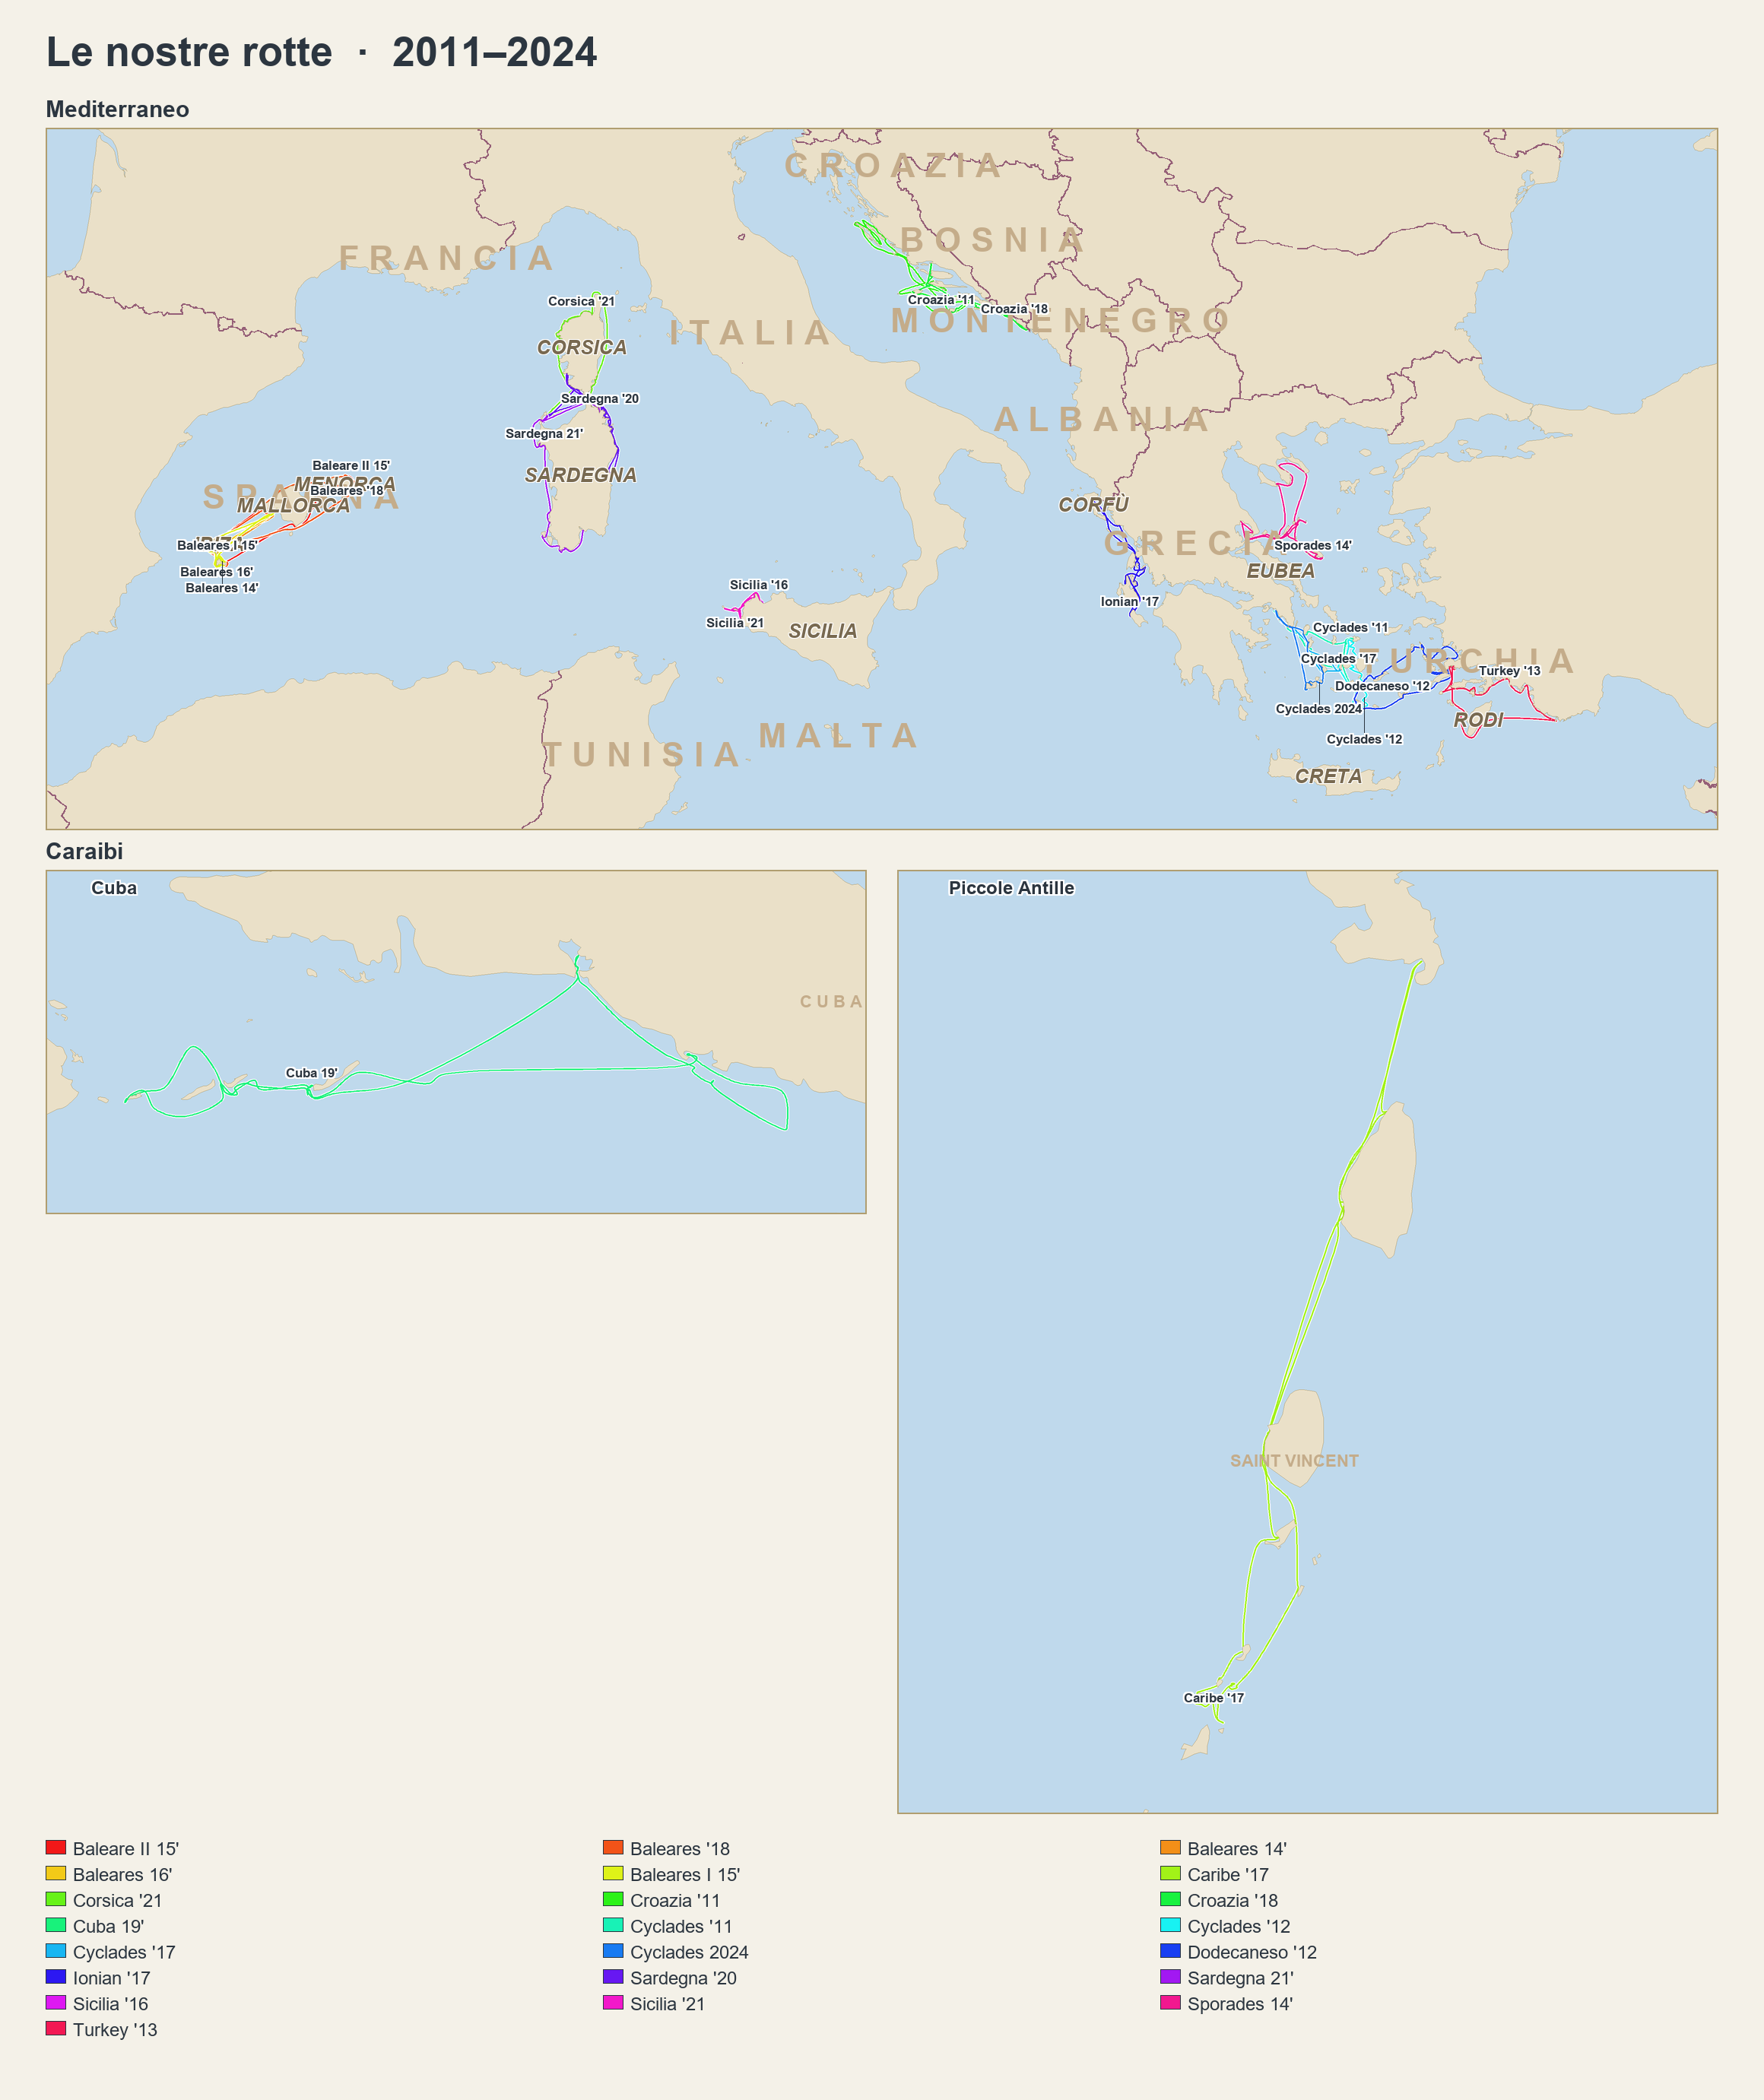
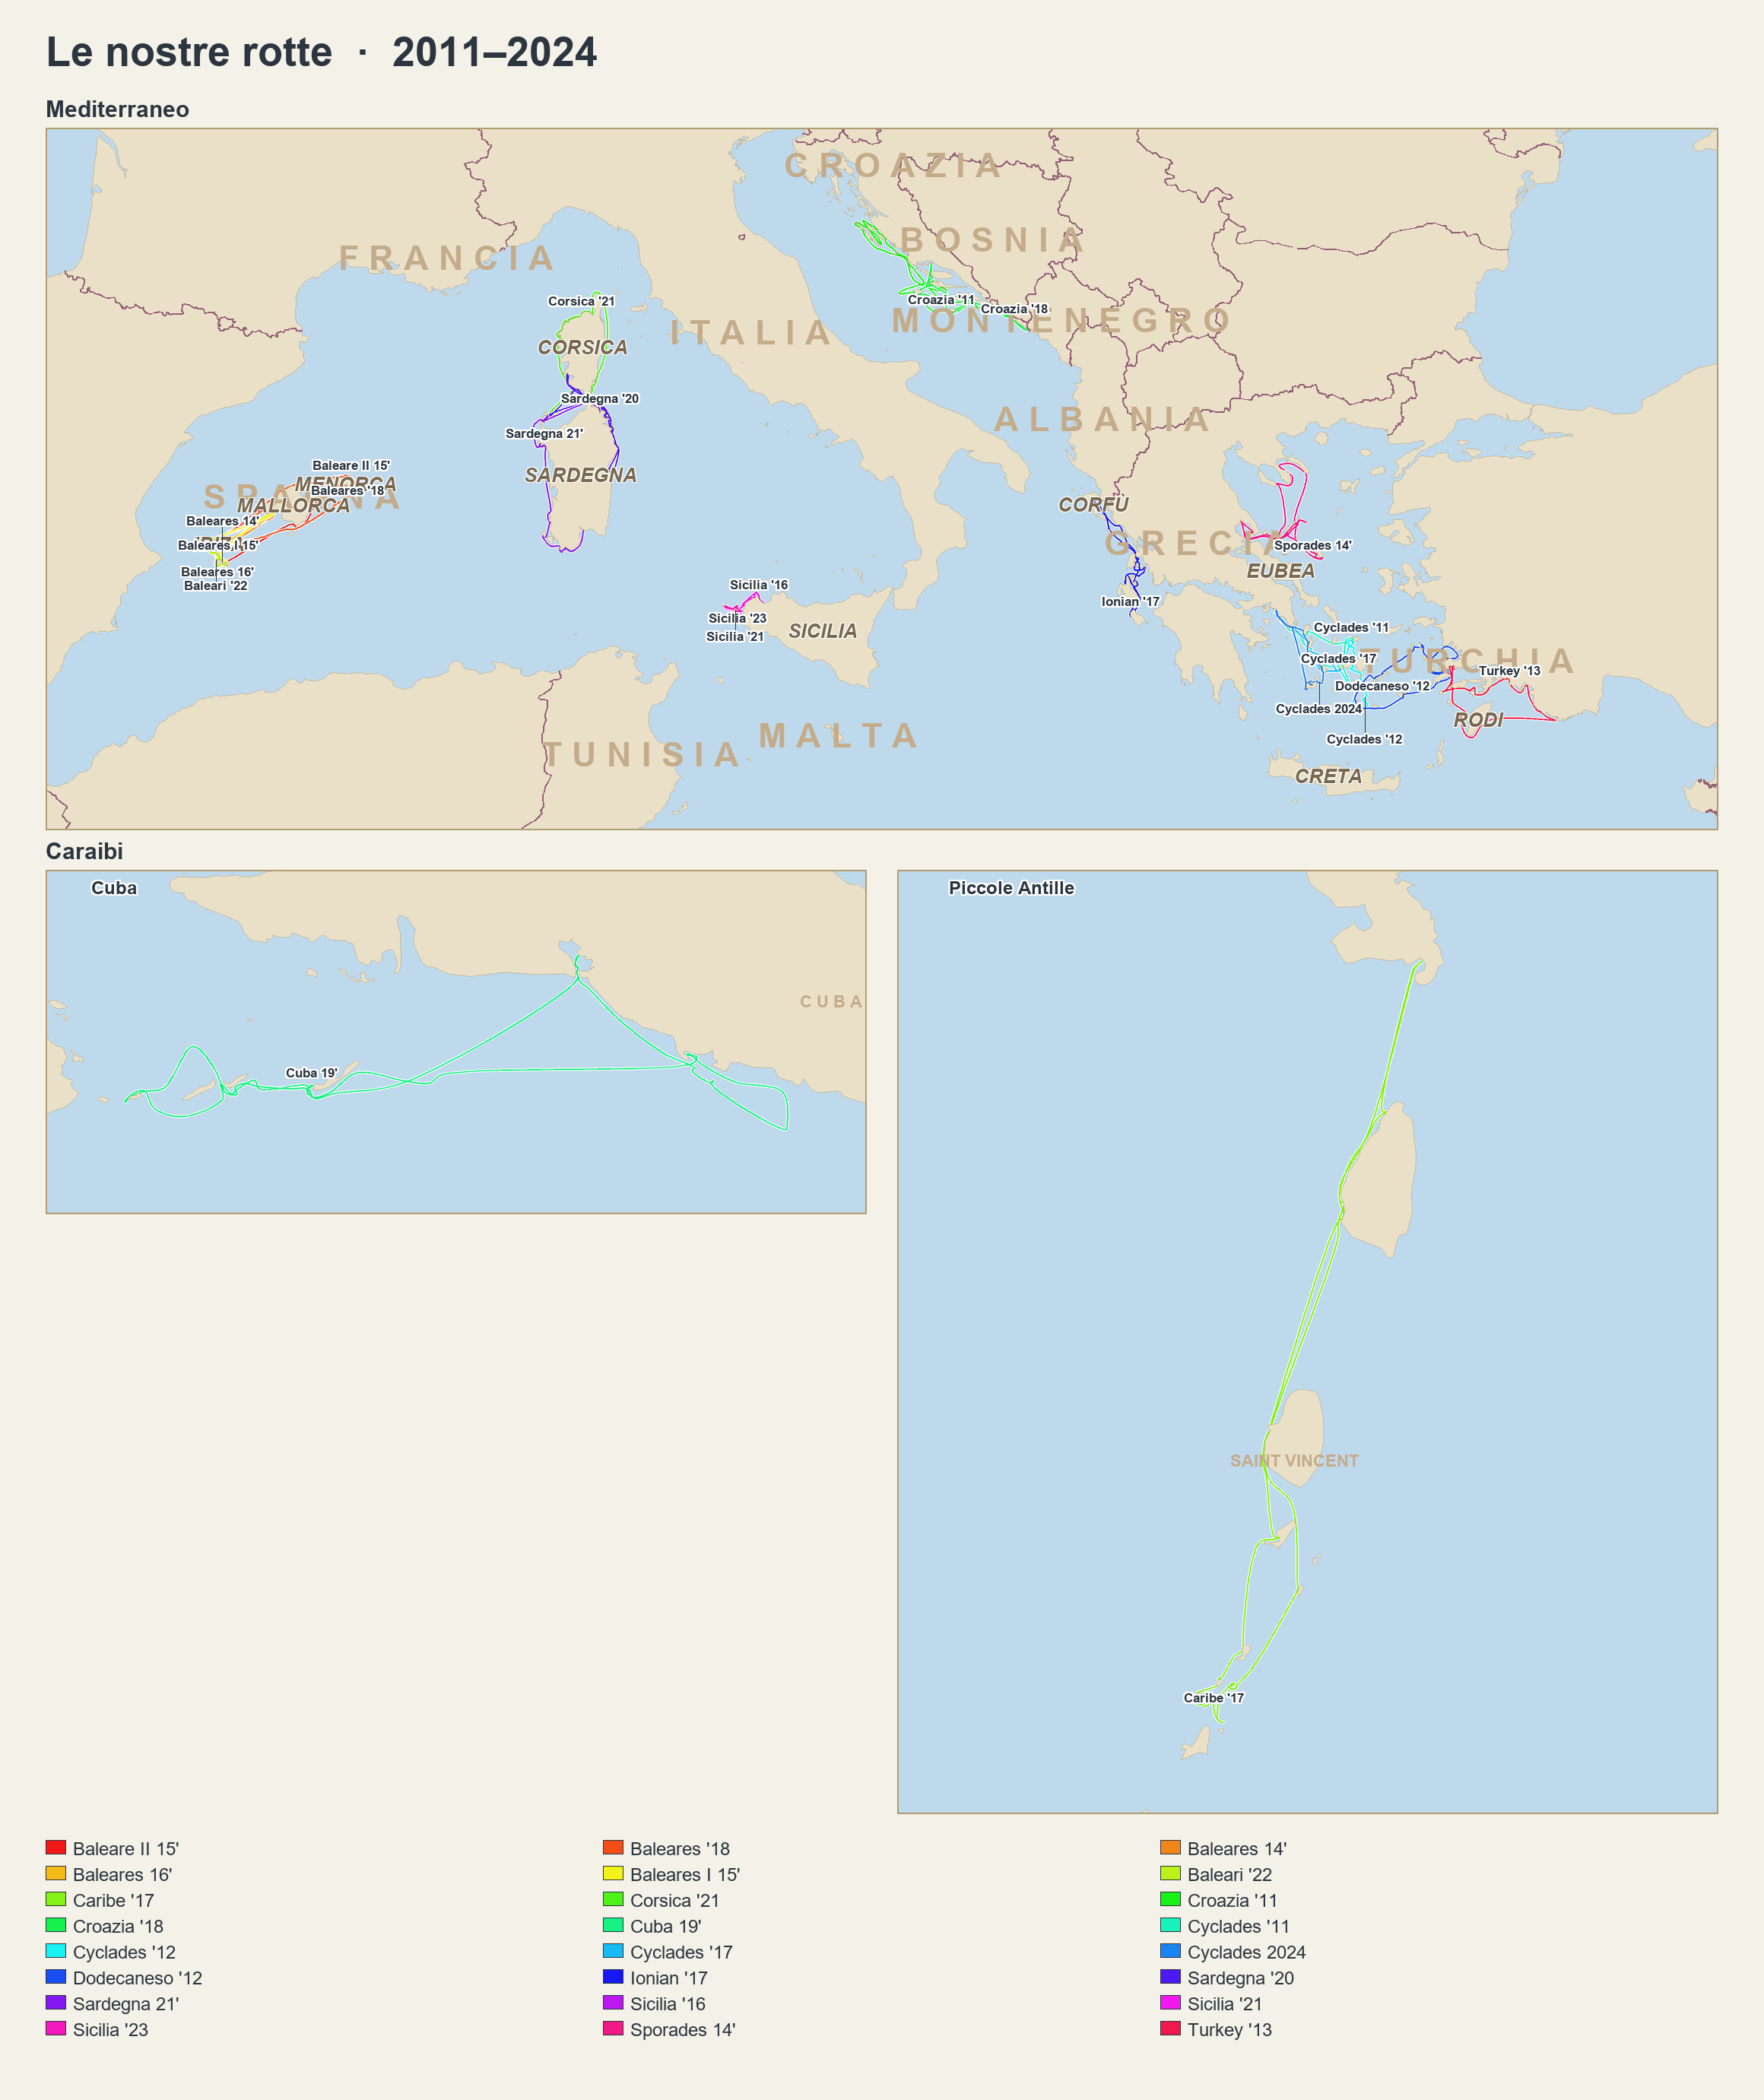
Rotte viaggi: aggiunge Baleari '22 e Sicilia '23 dal KML aggiornato
- Rigenerate le rotte dal KML aggiornato (24 tracce): due nuovi viaggi resi in
  site/trips/routes/ e cablati in viaggio.html:
    challenger (Baleares '22) -> baleari-22.png  (Ibiza/Formentera)
    isla       (Sicily-Egadi '23) -> sicilia-23.png  (Egadi)
- _global.png rigenerata: la panoramica a 3 parti e la legenda ora includono i due
  nuovi viaggi (24 tracce; Sporades '22 e Seychelles '24 restano senza traccia GPS).
- render_routes.py: nuova opzione --source per scegliere il KML sorgente.
- .gitignore: glob "Viaggi in barca*.kml" -> anche il file _last resta LOCALE
  (tracce GPS grezze fuori dal repo pubblico).

diff --git a/site/viaggio.html b/site/viaggio.html
@@ -130,7 +130,7 @@ const ROUTE = {
   sorbe: "caribe-17", "capitan-nikos": "cyclades-17", showtime: "ionian-17",
   invitation: "baleares-18", ondine: "croazia-18", lohengrin: "cuba-19",
   alba: "sardegna-20", enya: "corsica-21", silkwave: "sardegna-21", "mars-planet": "sicilia-21",
-  alexandros: "cyclades-2024"
+  challenger: "baleari-22", isla: "sicilia-23", alexandros: "cyclades-2024"
 };
 const parts = c => (c || "").split(/[-&]/).map(x => x.trim()).filter(Boolean);
 const flag1 = c => CC[c] ? `<img class="flag" src="skipper/flags/${CC[c]}.svg" alt="${esc(c)}" title="${esc(IT_NAME[c] || c)}">` : "";

diff --git a/scripts/render_routes.py b/scripts/render_routes.py
@@ -959,10 +959,14 @@ def main():
     ap.add_argument("--only", action="append", default=[], help="genera solo il viaggio indicato (ripetibile)")
     ap.add_argument("--no-global", action="store_true", help="salta la mappa globale")
     ap.add_argument("--no-labels", action="store_true", help="senza nomi/POI OSM")
+    ap.add_argument("--source", default=None, help="KML sorgente alternativo (default: SRC_KML)")
     args = ap.parse_args()
 
     OUT_DIR.mkdir(parents=True, exist_ok=True)
-    trips, trackless = load_trips(SRC_KML)
+    src = Path(args.source) if args.source else SRC_KML
+    if not src.exists():
+        sys.exit(f"ERRORE: KML sorgente non trovato: {src}")
+    trips, trackless = load_trips(src)
     n = len(trips)
     for i, t in enumerate(trips):
         t["_hex"] = kml_color(i, n)[1]
@@ -1010,7 +1014,7 @@ def main():
             existing = {}
     existing.update(manifest)
     mf.write_text(json.dumps({
-        "source": SRC_KML.name,
+        "source": src.name,
         "style": "nautico-chiaro",
         "note": "Immagini in staging. Destinazione sito: site/trips/routes/ (NON site/trips/img). "
                 "Gli id-scheda del sito sono slug del nome barca: serve un ponte nome-KML -> boat-id.",